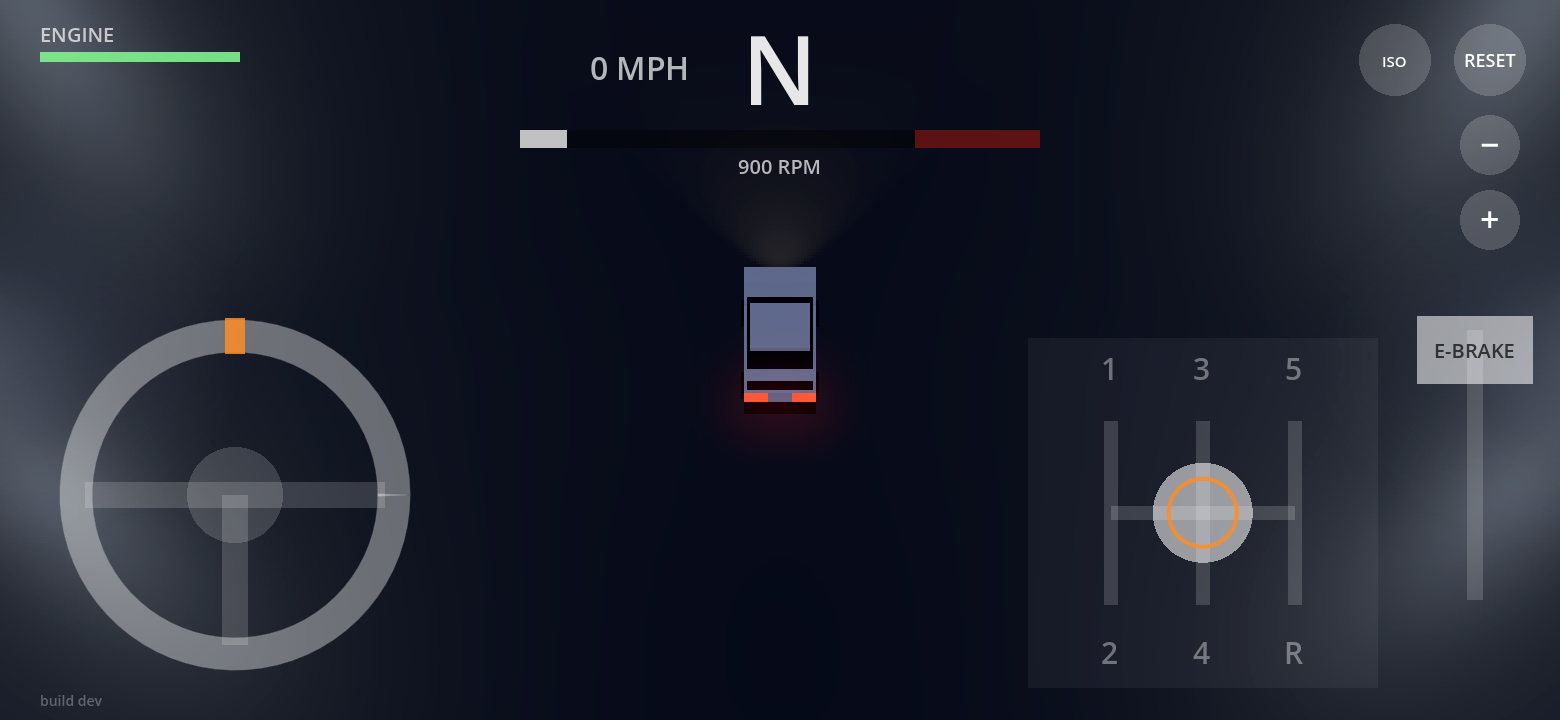
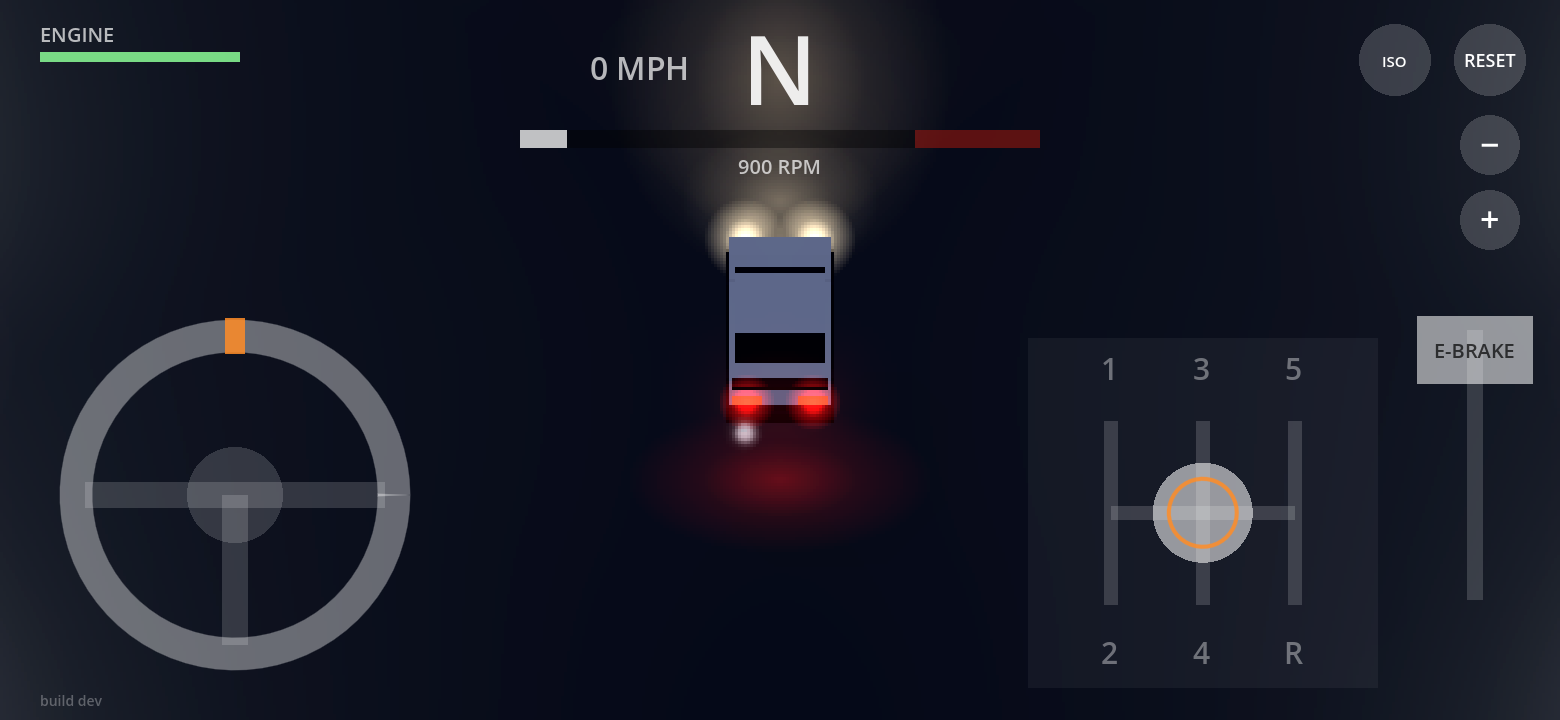
Headlight and tail light glow, tailpipe exhaust with backfires, camera leads further ahead
- Camera focus leads the car by up to a third of the view, so the car sits low
  and most of the screen is road ahead
- Additive halos on head/tail lights (bloom), warm beam pool on the road,
  red wash behind that flares when braking/neutral
- Exhaust puffs that scale with rpm, a burst on every shift, and backfire
  flashes on downshifts, hot upshifts and on the limiter

Claude-Session: https://claude.ai/code/session_01X5D3N9oUK59uFhYSHv3wU5

Changed region(s): [[0.8308, 0.0, 1.0, 0.9167], [0.0, 0.0, 0.1538, 0.8861], [0.4308, 0.0, 0.5846, 0.7333]]

diff --git a/README.md b/README.md
@@ -57,7 +57,7 @@ Everything is built in code from `scripts/main.gd`, no scene editing needed.
 | `scripts/touch_controls.gd` | Wheel, shifter, e-brake lever, buttons |
 | `scripts/hud.gd` | Gear, tach, speed, engine health, drift points |
 | `scripts/neighborhood.gd` | The night suburb and street lights |
-| `scripts/car_model.gd` | Placeholder car, skid marks, smoke, brake lights |
+| `scripts/car_model.gd` | Placeholder car, headlight/tail light glow, exhaust and backfires, skid marks, smoke |
 | `scripts/chase_camera.gd` | Isometric or perspective chase camera, with zoom (both remembered) |
 | `scripts/haptics.gd` | Vibration on gear changes |
 | `tests/test_drive.gd` | Automated test: launches, shifts, drifts, blows the engine |
